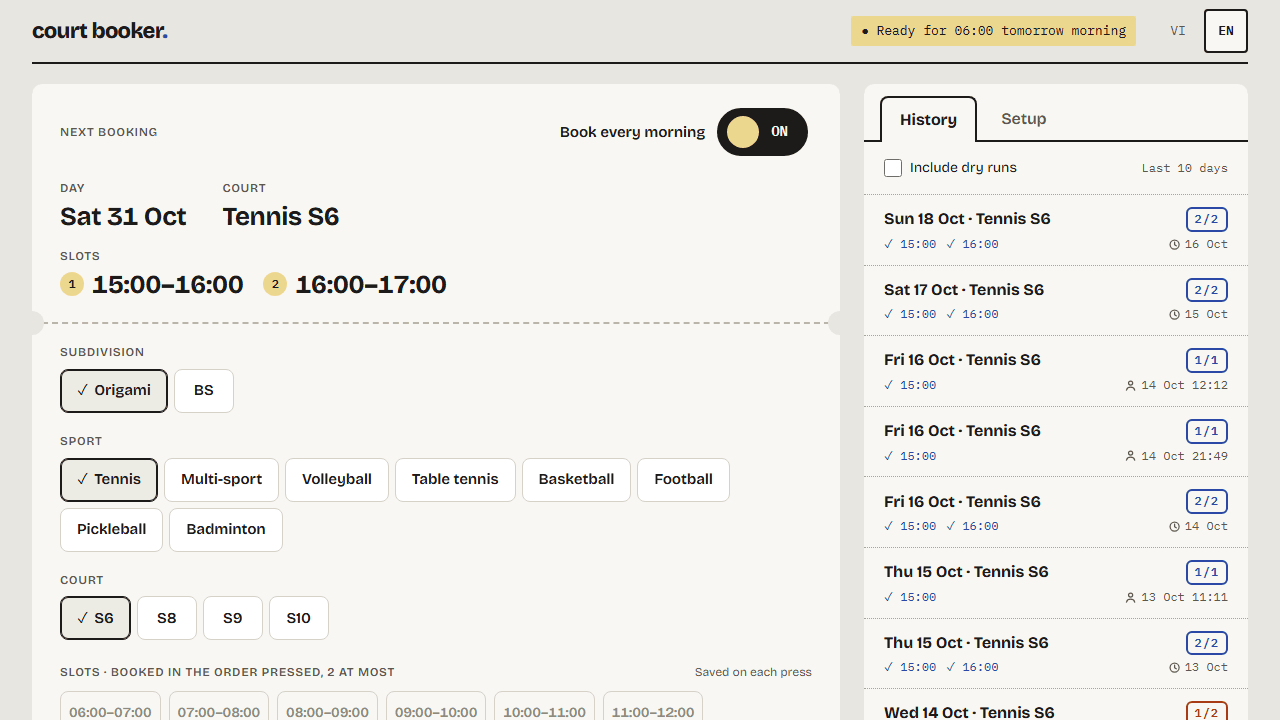
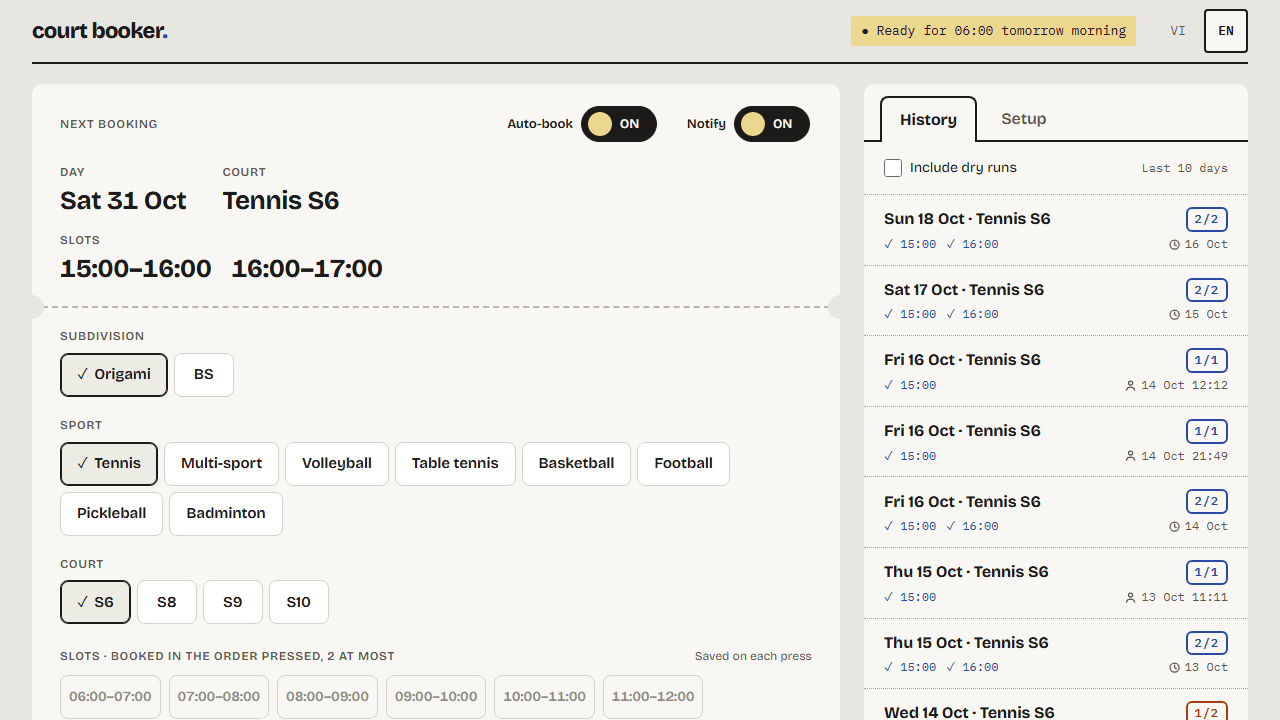
fix: name the daily switch by its short word everywhere; retake README shots
The setup guide and the status line say 'Tự đặt' / 'Auto-book' like the switch; README screenshots show the switches on one row.

diff --git a/ui/src/pages/home/SetupTab.tsx b/ui/src/pages/home/SetupTab.tsx
@@ -13,7 +13,7 @@ import styles from "./SetupTab.module.css";
 /** The three steps of a first use; shown first until everything is set up. */
 function HowTo() {
   const { t } = useTranslation();
-  const names = { dryRun: t("pages.ticket.dryRun.button"), daily: t("pages.ticket.auto") };
+  const names = { dryRun: t("pages.ticket.dryRun.button"), daily: t("pages.ticket.autoShort") };
   return (
     <ol className={styles.howto}>
       {(["1", "2", "3"] as const).map((step) => (

diff --git a/ui/src/pages/HomePage.test.tsx b/ui/src/pages/HomePage.test.tsx
@@ -82,7 +82,7 @@ describe("HomePage status line", () => {
     const status = overview();
     renderOverview({ ...status, schedule: { ...status.schedule, enabled: false } });
 
-    expect(await statusLine()).toHaveTextContent("Chạy thử đạt · bật Tự đặt mỗi sáng");
+    expect(await statusLine()).toHaveTextContent("Chạy thử đạt · bật Tự đặt");
   });
 });
 

diff --git a/ui/src/pages/home/SetupTab.test.tsx b/ui/src/pages/home/SetupTab.test.tsx
@@ -63,7 +63,7 @@ describe("SetupTab first use", () => {
     ).toEqual([
       "Làm các việc thiết lập bên dưới, một lần.",
       "Chọn môn, sân và khung giờ trên vé bên trái.",
-      'Bấm "Chạy thử ngay", đạt thì bật "Tự đặt mỗi sáng".',
+      'Bấm "Chạy thử ngay", đạt thì bật "Tự đặt".',
     ]);
   });
 

diff --git a/docs/specs/0.5.0-desktop-app.md b/docs/specs/0.5.0-desktop-app.md
@@ -49,7 +49,7 @@ adds setup, settings, a schedule switch, history and an activity log around it.
   silently starts MuMu,
   connects ADB, starts the driver, restarts the app and turns off animations and notification
   banners.
-- **Schedule:** the "Tự đặt mỗi sáng" switch on the ticket, allowed once a dry run passed; a
+- **Schedule:** the "Tự đặt" ("Auto-book") switch on the ticket, allowed once a dry run passed; a
   passed dry run never turns it on by itself, the status line asks for it instead. The status
   line's order: a run going on, setup tasks left, no dry run passed, the switch off, ready.
   The PC must sleep, not shut down, stay signed in to Windows, and be plugged in.

diff --git a/CHANGELOG.md b/CHANGELOG.md
@@ -16,6 +16,8 @@ uses [Semantic Versioning](https://semver.org/).
   switch on one row, both with a short word ("Tự đặt", "Thông báo"). The switches are smaller
   (36 px, a 24 px knob) and the buttons as tall as the choices (44 px).
 - The slots on top of the ticket drop their order badges; the choices below number them.
+- The setup guide and the status line name the daily switch by its new word ("bật Tự đặt",
+  "turn on Auto-book"); README screenshots retaken.
 
 ## [0.17.0] - 2026-10-28
 

diff --git a/README.md b/README.md
@@ -192,7 +192,7 @@ court-booker schedule install   # daily task at wake_at; it books for real at st
 court-booker schedule status    # the task, its last and next run
 ```
 
-The Schedule screen of the web UI does the same with a switch, once a dry run has passed.
+The ticket's "Auto-book" switch in the web UI does the same, once a dry run has passed.
 `court-booker schedule remove` deletes the task. A real run closes MuMu once its rounds are
 done; the next run starts it again. A dry run leaves it open.
 
